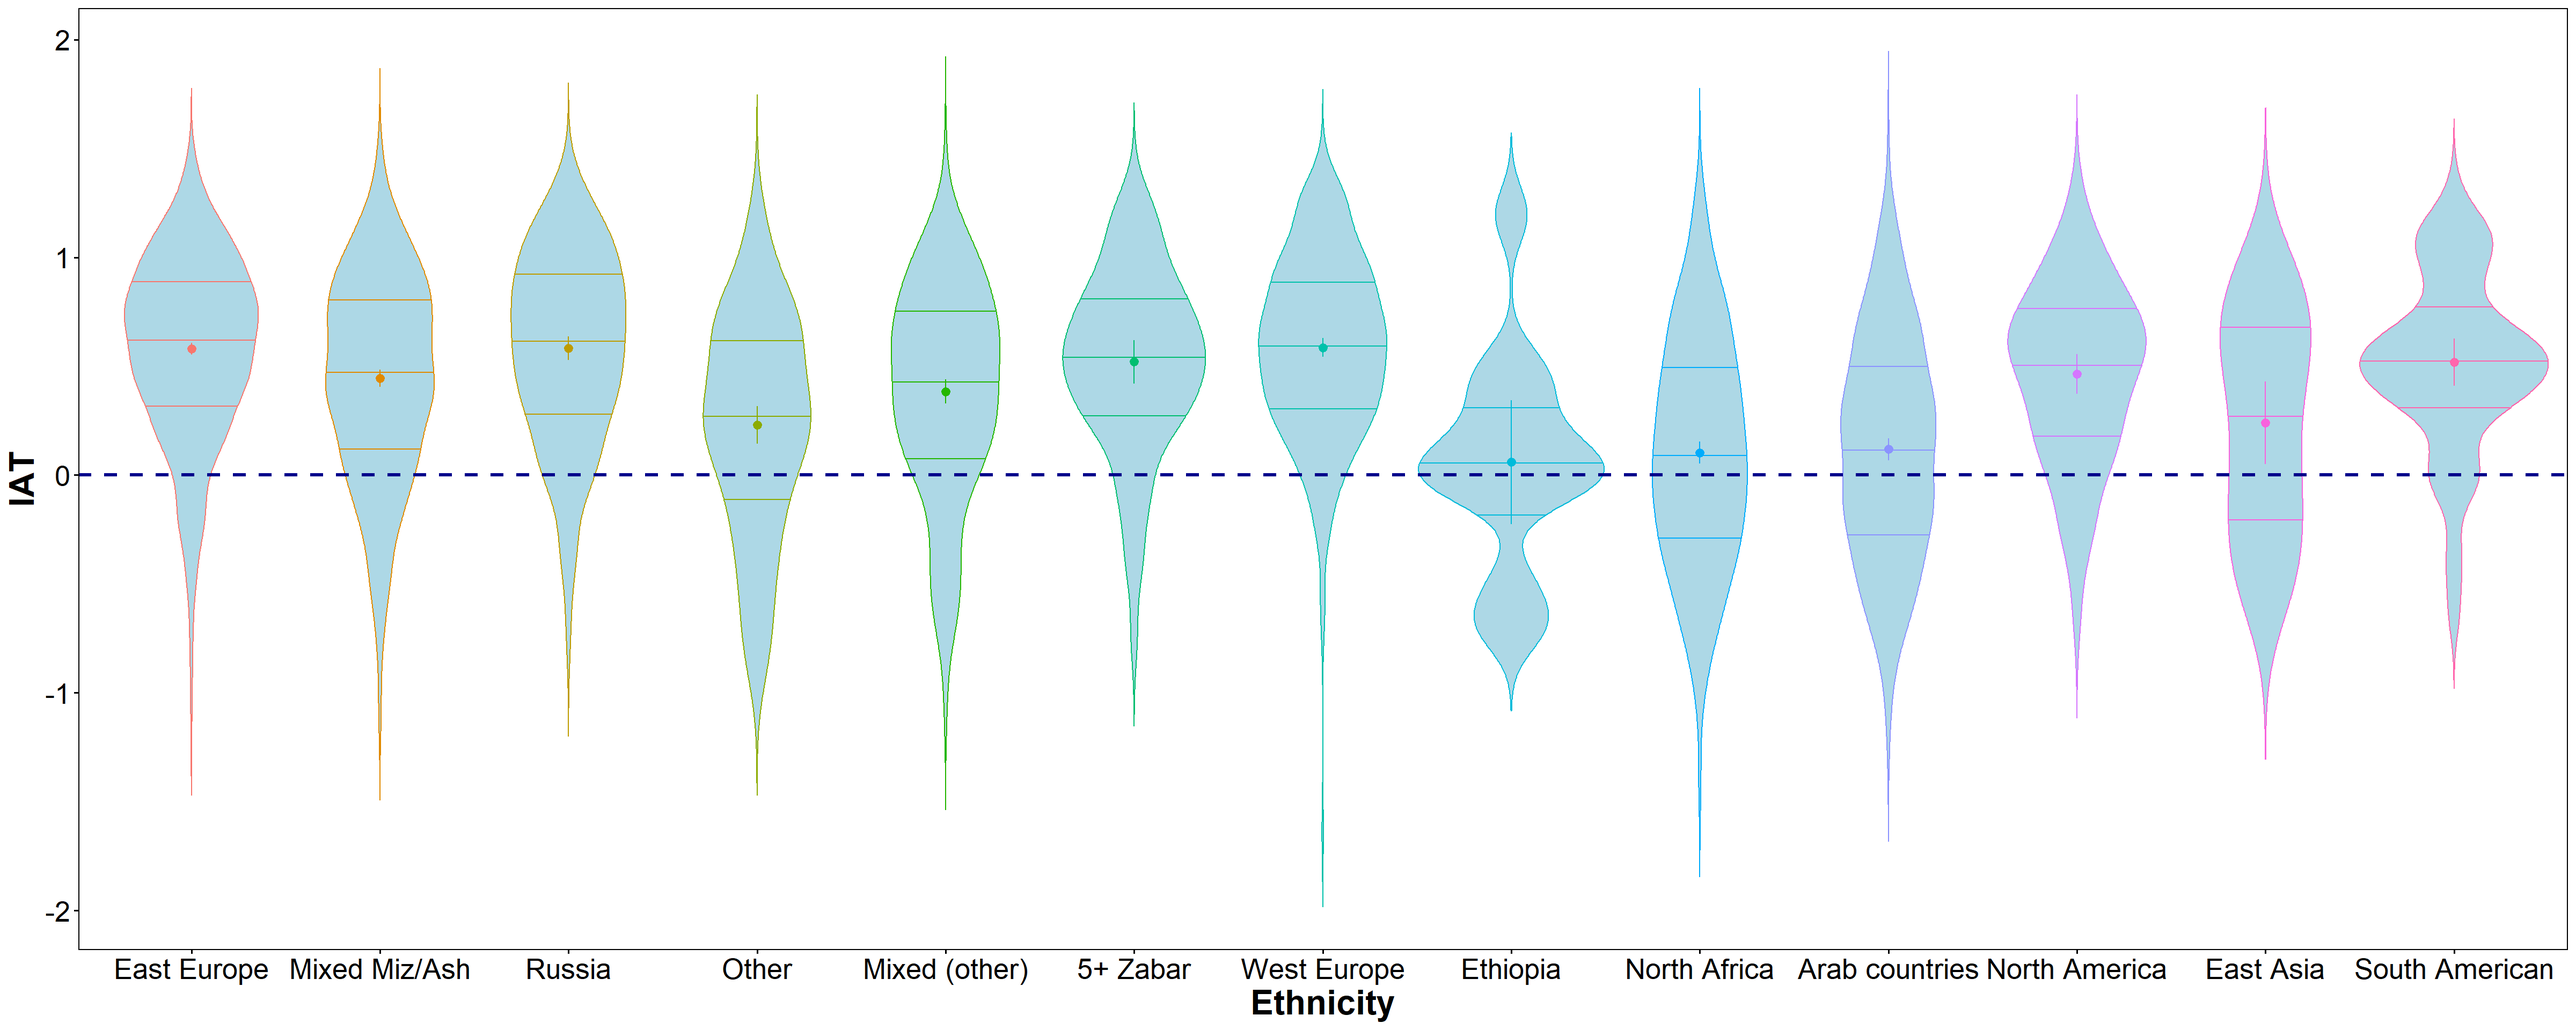
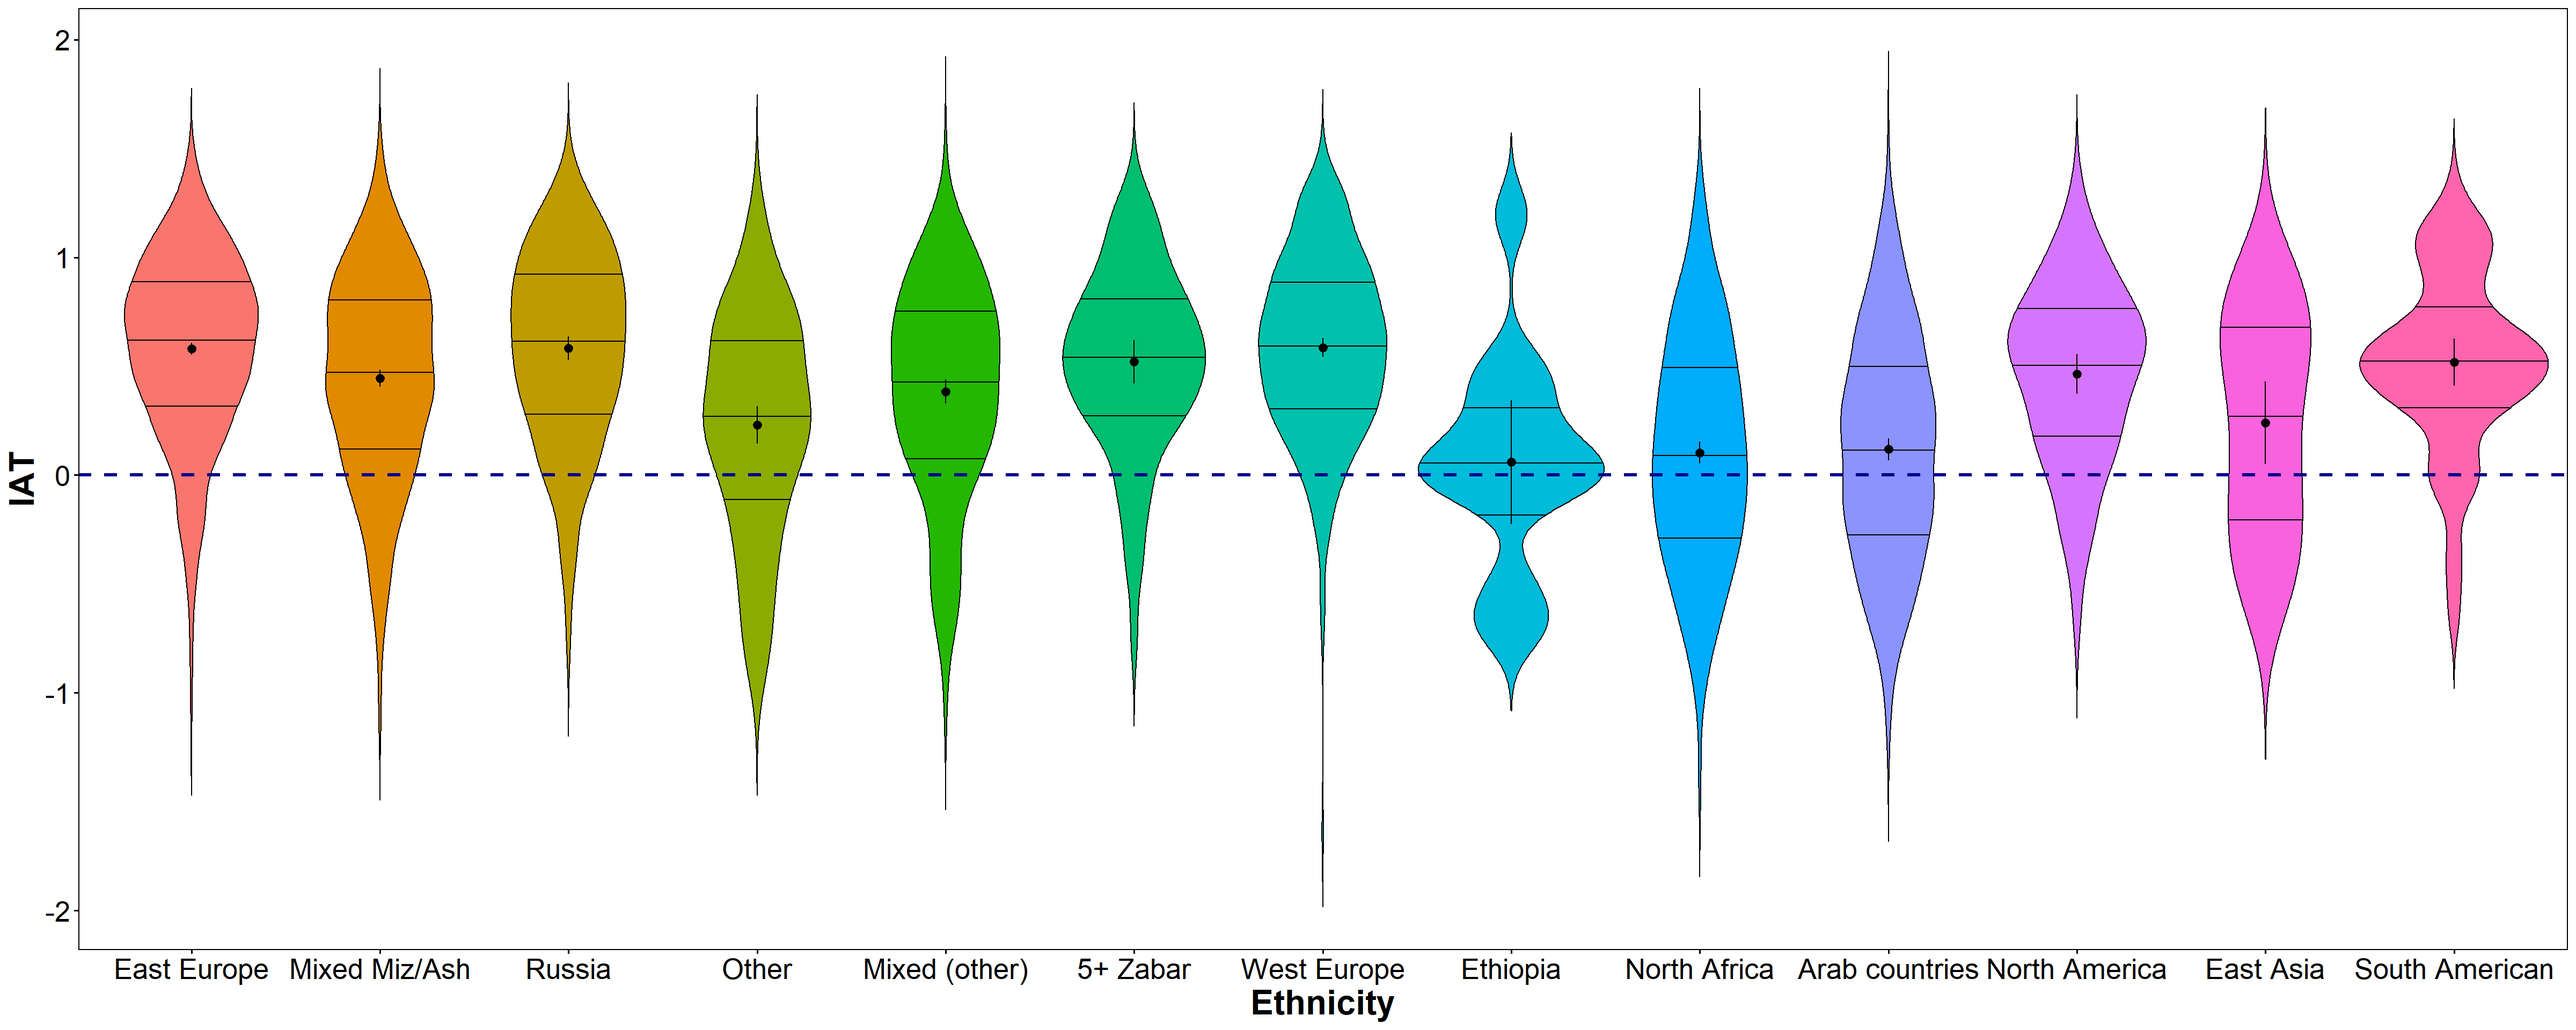
fix violin

diff --git a/public/post/biases-in-israel/index.html b/public/post/biases-in-israel/index.html
@@ -1194,8 +1194,8 @@ pp &lt;- ggviolin(ethnic1, x = &quot;ethnic.c&quot;,
       combine = TRUE,
       ylab = &quot;IAT&quot;, 
       xlab = &quot;Ethnicity&quot;,
-      color = &quot;ethnic.c&quot;,
-      fill = &quot;lightblue&quot;, #lightblue
+      color = &quot;black&quot;,
+      fill = &quot;ethnic.c&quot;, #lightblue
       add = c(&quot;mean_ci&quot;),
       draw_quantiles = c(0.25,0.5,0.75)
       )

diff --git a/content/post/2020-10-01-biases-in-israel.en.html b/content/post/2020-10-01-biases-in-israel.en.html
@@ -957,8 +957,8 @@ pp &lt;- ggviolin(ethnic1, x = &quot;ethnic.c&quot;,
       combine = TRUE,
       ylab = &quot;IAT&quot;, 
       xlab = &quot;Ethnicity&quot;,
-      color = &quot;ethnic.c&quot;,
-      fill = &quot;lightblue&quot;, #lightblue
+      color = &quot;black&quot;,
+      fill = &quot;ethnic.c&quot;, #lightblue
       add = c(&quot;mean_ci&quot;),
       draw_quantiles = c(0.25,0.5,0.75)
       )
